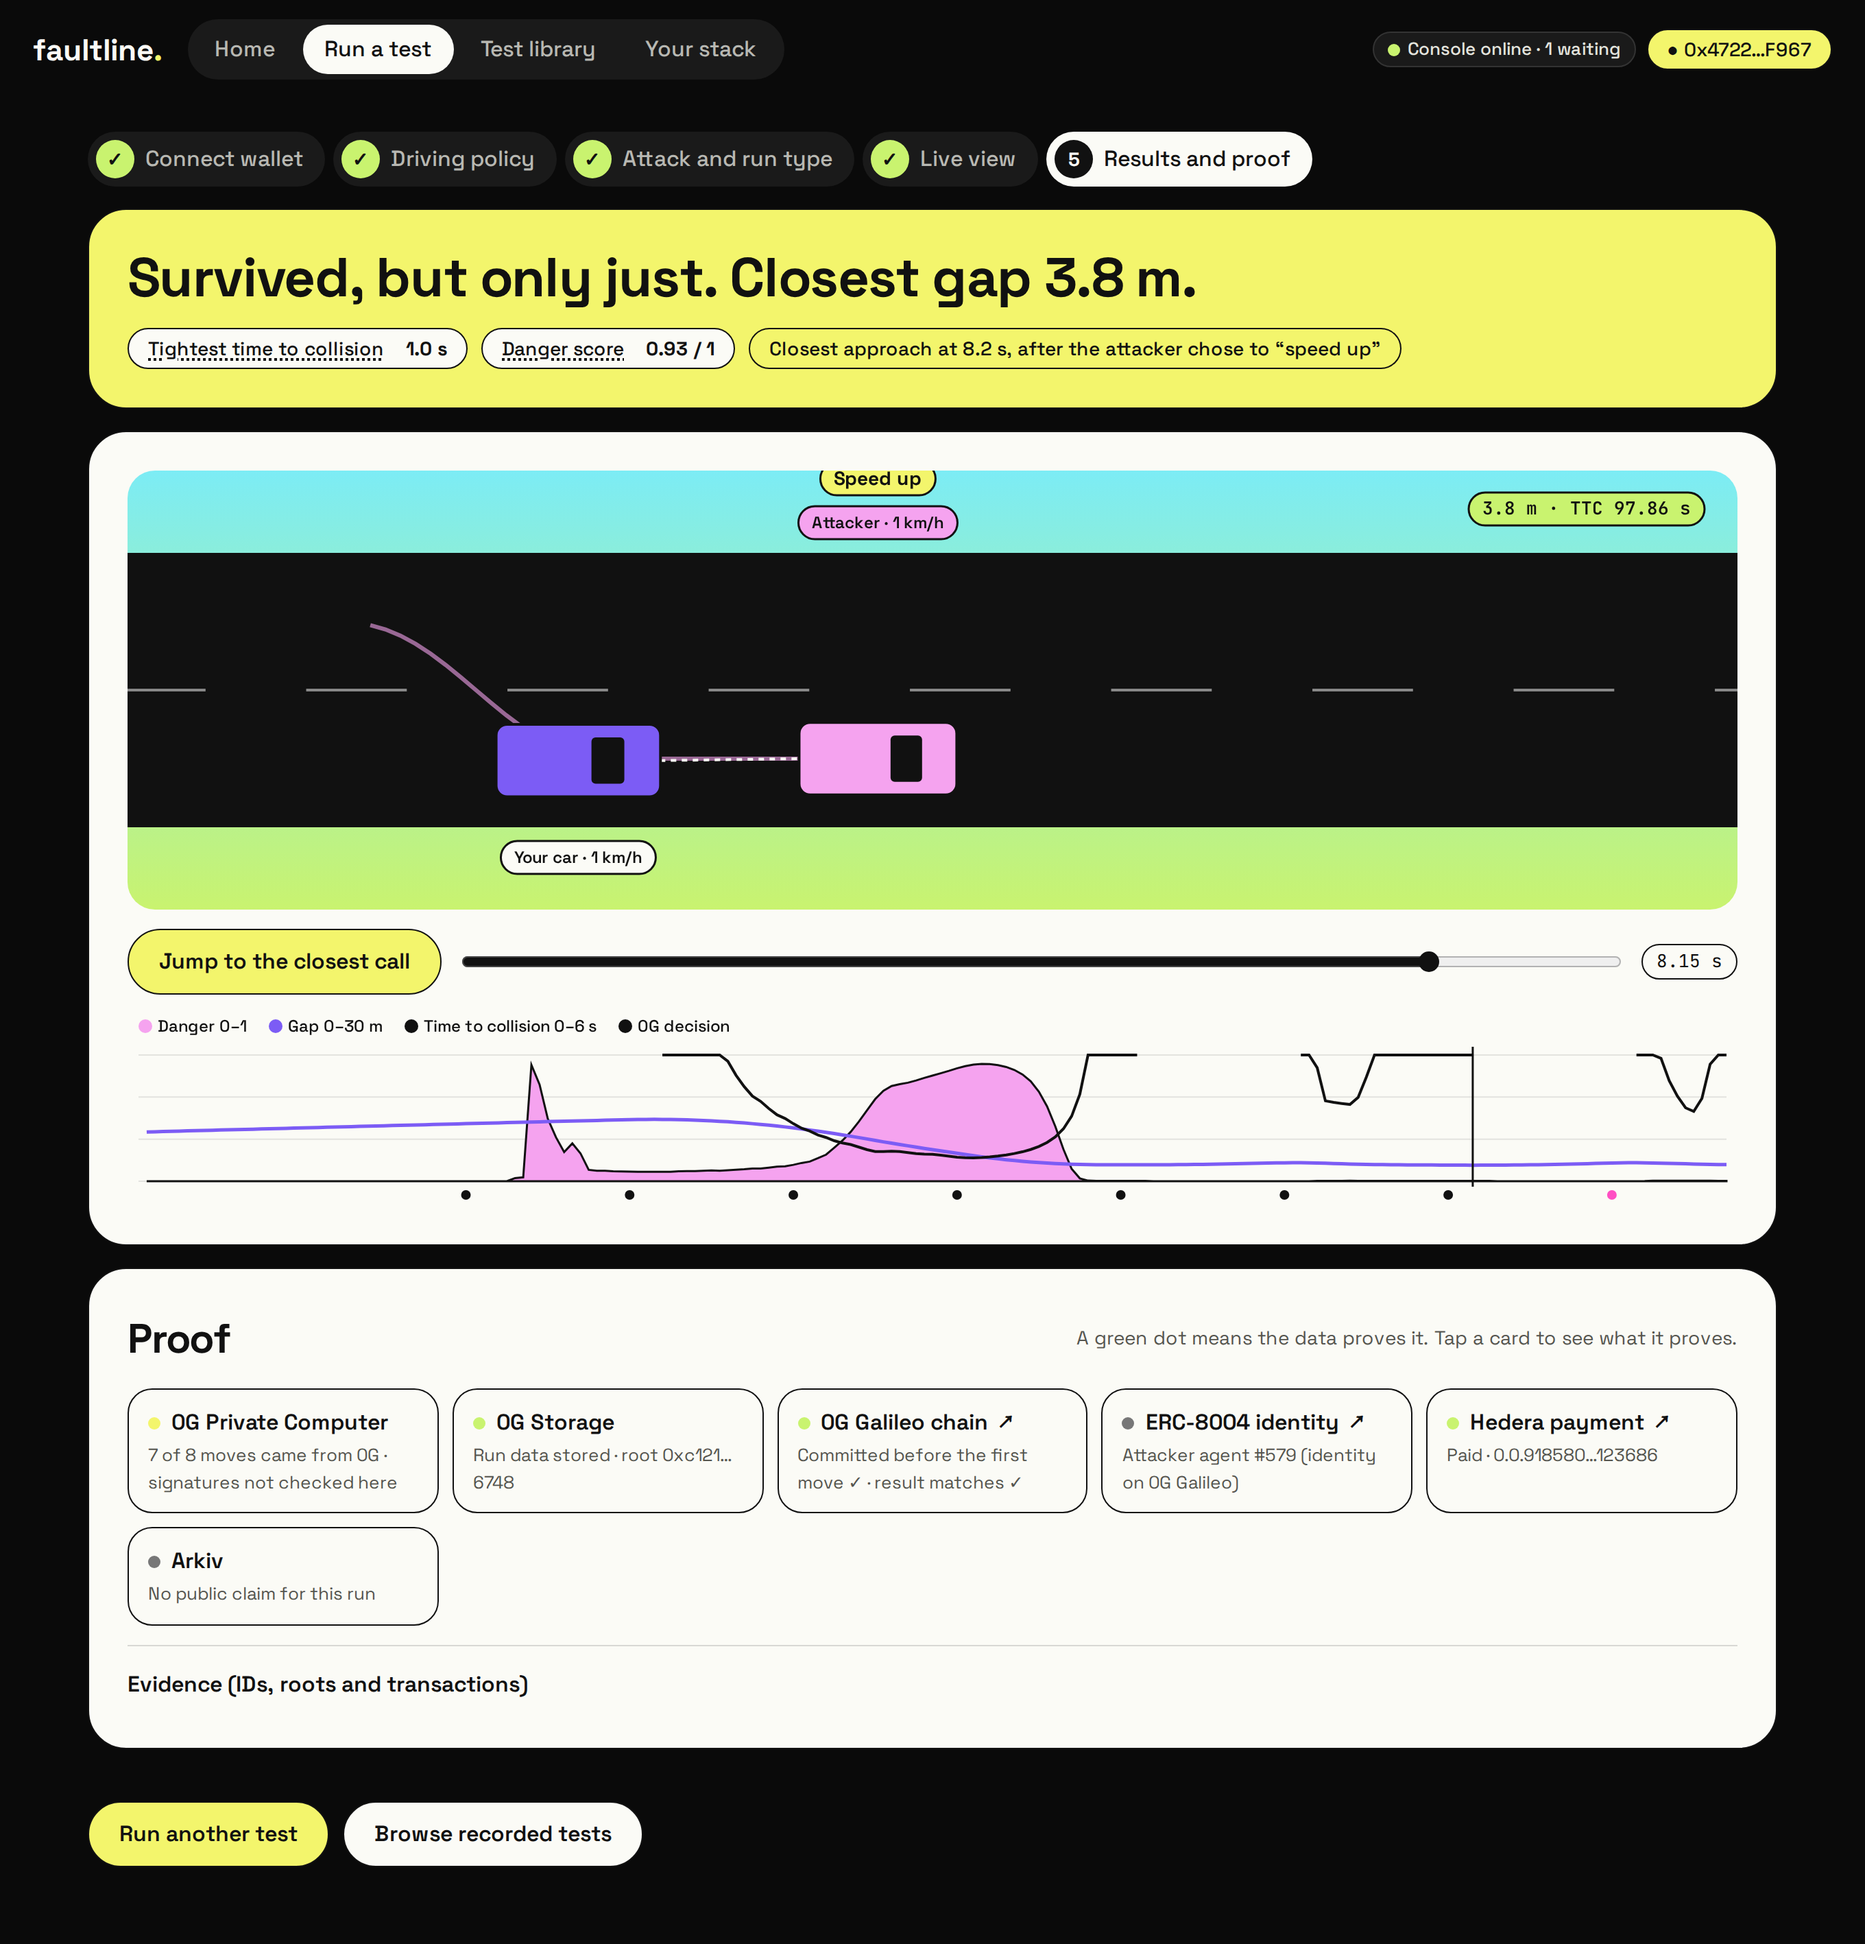
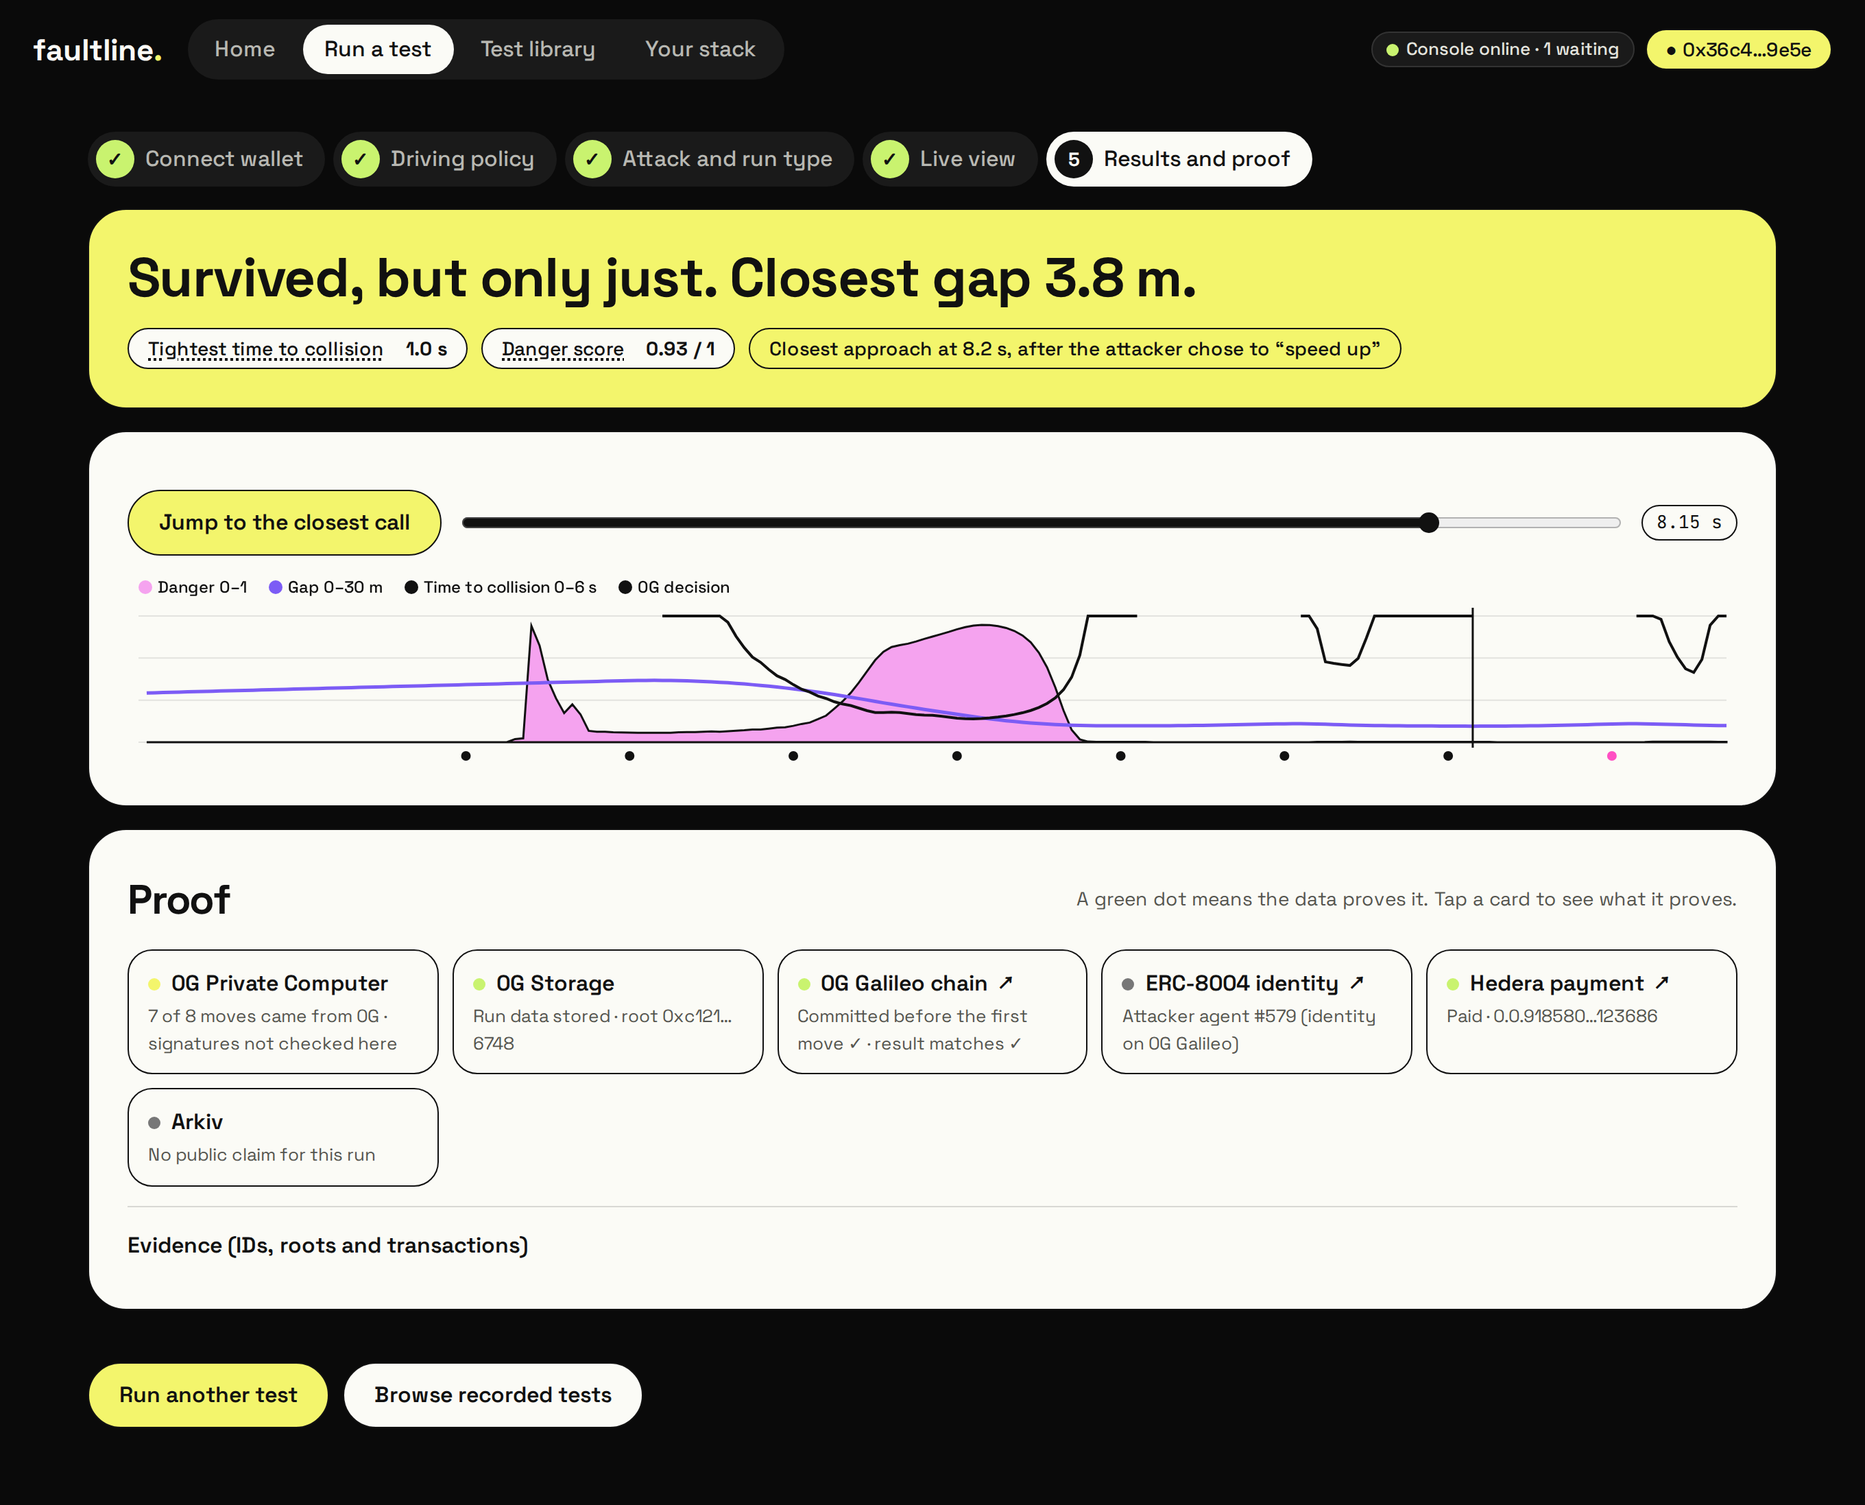
studio: no 2-D simulator view anywhere; replays play the run's recorded CARLA clip

diff --git a/apps/faultline-studio/src/main.ts b/apps/faultline-studio/src/main.ts
@@ -287,13 +287,19 @@ async function startStream(run: string, smode: 'live' | 'replay', by: 'run' | 'j
   show('flow'); step(4)
   ticks = []; decisions = []; waiting = null; runMeta = null; runFree = free
   const cam = $<HTMLImageElement>('live-cam'), carla = by === 'job' && attack === 'cut-in-v1-carla'
-  cam.classList.toggle('hidden', !carla); $('scene').classList.toggle('hidden', carla)
+  // no 2-D simulator view: the live CARLA camera for running jobs, the recorded clip for replays
+  cam.classList.toggle('hidden', !carla); $('scene').classList.add('hidden'); $('replay-vid').classList.add('hidden'); $('no-cam').classList.add('hidden')
   if (carla) cam.src = api(`/api/live/${encodeURIComponent(run)}`); else cam.removeAttribute('src')
   $('progress').innerHTML = ''; $('feed').innerHTML = ''; $('log').textContent = ''; $('to-results').classList.add('hidden')
   $('live-tag').textContent = smode === 'live' ? 'Live' : 'Replay'; $('live-tag').classList.add('live')
   $('s-job').textContent = smode === 'live' ? 'Queued' : 'Recorded test'; $('s-dec').textContent = '0'
   try {
     await post('/api/stream', { [by]: run, mode: smode, speed: smode === 'replay' ? 2 : 1 }, (e) => {
+      if (e.t === 'meta' && smode === 'replay') {
+        const v = $<HTMLVideoElement>('replay-vid'), src = e.run?.video
+        v.classList.toggle('hidden', !src); $('no-cam').classList.toggle('hidden', !!src)
+        if (src) { v.src = api('/media/' + src); v.play().catch(() => { /* controls stay */ }) } else v.removeAttribute('src')
+      }
       if (e.t === 'meta') { runMeta = e.run ?? e.job?.result ?? null; if (e.job?.label) $('s-job').textContent = e.job.label }
       if (e.t === 'step') progress(`x-${e.id}`, e.status, e.title ?? e.id, e.status === 'fail' ? esc(e.detail) : '')
       if (e.t === 'phase') {
@@ -436,7 +442,7 @@ function openResults() {
       ${at ? `<span class="pill y">Closest approach at ${num(at.t_s, 1)} s${cause ? `, after the attacker chose to “${esc(say(cause.action).toLowerCase())}”` : ''}</span>` : ''}
     </div>`
   const vid = $<HTMLVideoElement>('rvideo'), rv = (r as any)?.video as string | undefined
-  vid.classList.toggle('hidden', !rv); $('rscene').classList.toggle('hidden', !!rv)
+  vid.classList.toggle('hidden', !rv); $('rscene').classList.add('hidden')
   if (rv) { vid.src = api('/media/' + rv); vid.onloadedmetadata = () => { vid.currentTime = Math.max(0, (at?.t_s ?? 0) - 1) } } else vid.removeAttribute('src')
   const s = $<HTMLInputElement>('scrub'); s.max = String(Math.max(0, ticks.length - 1)); s.value = String(worstIdx)
   drawResults()

diff --git a/apps/faultline-studio/index.html b/apps/faultline-studio/index.html
@@ -170,7 +170,7 @@
     .statusbar { display: flex; gap: 8px 20px; align-items: center; flex-wrap: wrap; padding: 16px 20px }
     .stat small { display: block; color: var(--muted); font-size: 13px } .stat b { font-family: var(--mono); font-size: 20px; font-weight: 600 }
     .live { animation: blink 1.2s steps(2) infinite } @keyframes blink { 50% { opacity: .55 } }
-    .scene { padding: 0; overflow: hidden } .scene canvas { width: 100%; height: 360px; display: block } #live-cam { width: 100%; aspect-ratio: 16 / 9; object-fit: cover; display: block; background: #000 } video.clip { margin-top: 14px }
+    .scene { padding: 0; overflow: hidden } .scene canvas { width: 100%; height: 360px; display: block } #live-cam, #replay-vid { width: 100%; aspect-ratio: 16 / 9; object-fit: cover; display: block; background: #000 } video.clip { margin-top: 14px }
     .feed { display: flex; flex-direction: column; gap: 8px; max-height: 560px; overflow: auto }
     .dec { background: #ffffffc0; border: 1.5px solid transparent; border-radius: 16px; padding: 10px 12px }
     .dec.new { animation: rowin .35s var(--ease); border-color: var(--line) }
@@ -421,7 +421,7 @@
         </div>
         <div class="grid pit">
           <div class="grid">
-            <div class="card scene"><img id="live-cam" class="hidden" alt="Live CARLA chase camera of your test"><canvas id="scene" aria-label="Top-down view: your car (purple) and the attacker (pink)"></canvas></div>
+            <div class="card scene"><img id="live-cam" class="hidden" alt="Live CARLA chase camera of your test"><video id="replay-vid" class="hidden" controls muted playsinline aria-label="Recorded CARLA camera of this run"></video><p id="no-cam" class="hidden" style="padding:40px 24px;margin:0;color:var(--muted)">This run has no camera recording. The decisions and telemetry below are from its recorded data.</p><canvas id="scene" class="hidden" aria-label="Top-down view"></canvas></div>
             <div class="card tele"><canvas id="tele" aria-label="Danger over time"></canvas></div>
             <div class="card">
               <div class="head"><h2>Progress</h2></div>
